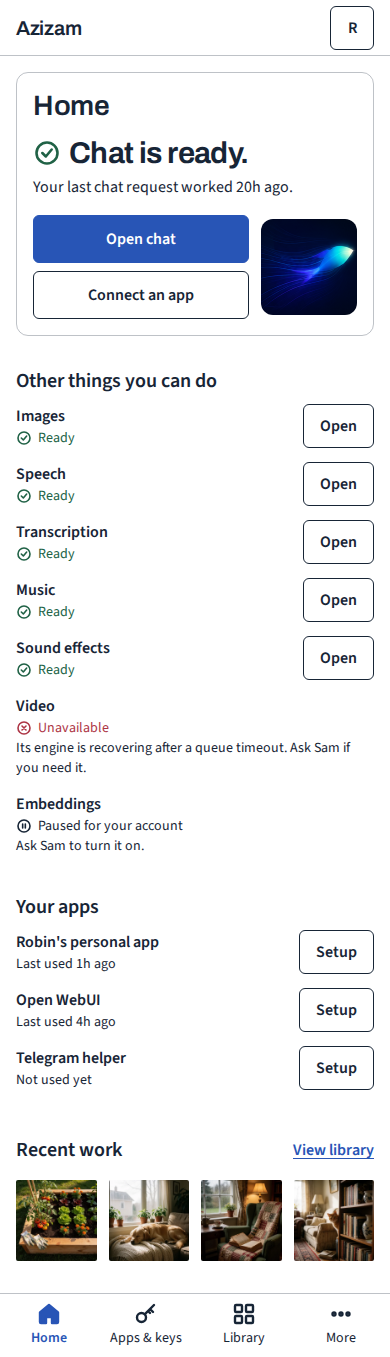
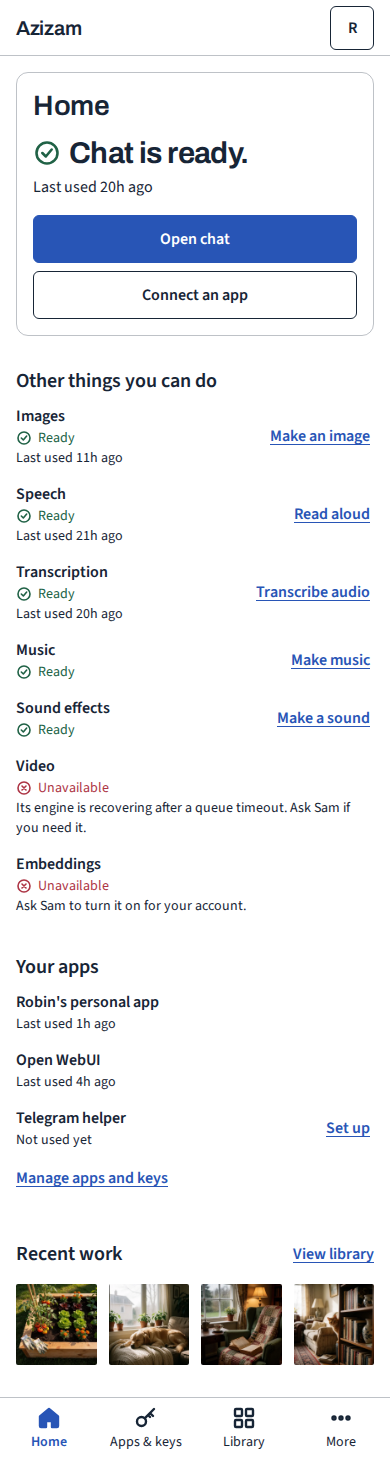
docs: Workspace comps, L6 fix pass (judge + dot review)

diff --git a/docs/design/comps/workspace/library.html b/docs/design/comps/workspace/library.html
@@ -46,6 +46,9 @@
   .nav a[aria-current="page"] .ico { fill: currentColor; fill-opacity: 1; }
   .disclose { margin-top: 16px; font-weight: 600; justify-content: space-between; }
   .rail { height: 56px; display: flex; align-items: center; justify-content: space-between; padding: 0 32px; border-bottom: 1px solid var(--line); }
+  .search input, .field input { flex: 1; min-width: 0; height: 40px; border: 0; background: none; color: var(--text); font: 400 16px/24px "Source Sans 3", sans-serif; outline: none; }
+  .search input::placeholder, .field input::placeholder { color: var(--text); opacity: 1; }
+  .search:focus-within, .field:focus-within, .select:focus-within { outline: 2px solid var(--accent); outline-offset: 2px; }
   .search { display: flex; align-items: center; gap: 8px; width: 360px; height: 44px; padding: 0 12px; border: 1px solid var(--text); border-radius: 6px; }
   .account { display: flex; align-items: center; gap: 8px; min-height: 44px; padding: 0 12px 0 6px; border: 1px solid var(--text); border-radius: 6px; background: none; color: var(--text); font: 600 16px/24px "Source Sans 3", sans-serif; }
   .initial { width: 32px; height: 32px; display: grid; place-items: center; border-radius: 6px; background: var(--text); color: var(--bg); font-weight: 600; }
@@ -61,24 +64,28 @@
   .toolbar { display: flex; gap: 12px; align-items: center; }
   .field { display: flex; align-items: center; gap: 8px; height: 44px; padding: 0 12px; border: 1px solid var(--text); border-radius: 6px; }
   .field-search { width: 280px; }
-  .select { display: flex; align-items: center; gap: 8px; height: 44px; padding: 0 8px 0 12px; border: 1px solid var(--text); border-radius: 6px; }
-  .select b { font-weight: 600; }
+  .select { position: relative; display: flex; align-items: center; gap: 8px; height: 44px; padding: 0 0 0 12px; border: 1px solid var(--text); border-radius: 6px; }
+  .select select { appearance: none; -webkit-appearance: none; height: 42px; border: 0; background: none; color: var(--text); font: 600 16px/24px "Source Sans 3", sans-serif; padding: 0 36px 0 0; outline: none; cursor: pointer; }
+  .select select option { background: var(--bg); color: var(--text); }
+  .select .ico { position: absolute; right: 8px; pointer-events: none; }
   .lib { display: grid; grid-template-columns: 768px 400px; gap: 24px; margin-top: 24px; align-items: start; }
   .group + .group { margin-top: 32px; }
   .group-h { font: 600 16px/24px "Source Sans 3", sans-serif; margin-bottom: 12px; }
   .sheet { list-style: none; margin: 0; padding: 0; display: grid; grid-template-columns: repeat(3, 248px); column-gap: 12px; row-gap: 24px; }
   .cell a { display: block; text-decoration: none; border-radius: 2px; }
-  .media { position: relative; display: grid; place-items: center; height: 160px; border: 1px solid var(--line); border-radius: 2px; overflow: hidden; }
+  .media { position: relative; display: grid; place-items: center; aspect-ratio: 1; border: 1px solid var(--line); border-radius: 2px; overflow: hidden; }
   .media img { position: absolute; inset: 0; width: 100%; height: 100%; object-fit: contain; display: block; }
   .cell a[aria-current="true"] .media { outline: 2px solid var(--accent); outline-offset: 2px; }
   .title { display: -webkit-box; -webkit-line-clamp: 2; -webkit-box-orient: vertical; overflow: hidden; margin-top: 10px; font-size: 16px; line-height: 24px; }
   .cell a[aria-current="true"] .title { font-weight: 600; }
   .meta { display: block; font-size: 14px; line-height: 20px; margin-top: 2px; }
-  .audio { display: flex; align-items: center; gap: 12px; }
-  .play { width: 44px; height: 44px; padding: 0; }
+  .cell { position: relative; }
+  .media-audio { place-items: end start; padding: 12px; }
+  .play { position: absolute; width: 44px; height: 44px; display: grid; place-items: center; padding: 0; border-radius: 6px; background: var(--bg); color: var(--text); border: 1px solid var(--text); cursor: pointer; }
+  .play-audio { left: calc(50% - 22px); top: calc(124px - 22px); }
+  .play-video { left: 8px; top: calc(248px - 52px); }
   .dur { font-weight: 600; }
-  .play-over { position: absolute; left: 8px; bottom: 8px; width: 44px; height: 44px; display: grid; place-items: center; border-radius: 6px; background: var(--bg); color: var(--text); border: 1px solid var(--text); }
-  .play-over .ico, .play .ico { fill: currentColor; stroke-width: 1.5; }
+  .play .ico { fill: currentColor; stroke-width: 1.5; }
 
   .preview { border: 1px solid var(--line); border-radius: 12px; padding: 16px; }
   .preview-media { height: 366px; display: grid; place-items: center; }
@@ -110,7 +117,6 @@
   <symbol id="i-down" viewBox="0 0 24 24"><path d="m6 9 6 6 6-6"/></symbol>
   <symbol id="i-ok" viewBox="0 0 24 24"><circle cx="12" cy="12" r="9"/><path d="m8 12 3 3 5-6"/></symbol>
   <symbol id="i-fail" viewBox="0 0 24 24"><circle cx="12" cy="12" r="9"/><path d="m9 9 6 6M15 9l-6 6"/></symbol>
-  <symbol id="i-paused" viewBox="0 0 24 24"><circle cx="12" cy="12" r="9"/><path d="M10 9v6M14 9v6"/></symbol>
   <symbol id="i-play" viewBox="0 0 24 24"><path d="M8 5v14l11-7z"/></symbol>
   <symbol id="i-download" viewBox="0 0 24 24"><path d="M12 4v11M7 10l5 5 5-5M5 20h14"/></symbol>
   <symbol id="i-expand" viewBox="0 0 24 24"><path d="M14 4h6v6M10 20H4v-6M20 4l-7 7M4 20l7-7"/></symbol>
@@ -141,7 +147,7 @@
 
   <div>
     <header class="rail">
-      <label class="search"><svg class="ico" aria-hidden="true"><use href="#i-search"/></svg><span>Search</span></label>
+      <div class="search" role="search"><svg class="ico" aria-hidden="true"><use href="#i-search"/></svg><label for="q" style="position:absolute;width:1px;height:1px;overflow:hidden;clip:rect(0 0 0 0)">Search</label><input id="q" type="search" placeholder="Search"></div>
       <button class="account" type="button"><span class="initial" aria-hidden="true">S</span>Sam</button>
     </header>
 
@@ -149,9 +155,9 @@
       <div class="lib-head">
         <h1>Library</h1>
         <div class="toolbar" role="search">
-          <label class="field field-search"><svg class="ico" aria-hidden="true"><use href="#i-search"/></svg><span>Search creations</span></label>
-          <label class="select">Type: <b>All</b><svg class="ico" aria-hidden="true"><use href="#i-down"/></svg></label>
-          <label class="select">Person: <b>Everyone</b><svg class="ico" aria-hidden="true"><use href="#i-down"/></svg></label>
+          <div class="field field-search"><svg class="ico" aria-hidden="true"><use href="#i-search"/></svg><label for="lib-q" style="position:absolute;width:1px;height:1px;overflow:hidden;clip:rect(0 0 0 0)">Search creations</label><input id="lib-q" type="search" placeholder="Search creations"></div>
+          <label class="select" for="f-type">Type<select id="f-type"><option>All</option><option>Images</option><option>Video</option><option>Audio</option></select><svg class="ico" aria-hidden="true"><use href="#i-down"/></svg></label>
+          <label class="select" for="f-person">Person<select id="f-person"><option>Everyone</option><option>Sam</option><option>Robin</option><option>Alex</option></select><svg class="ico" aria-hidden="true"><use href="#i-down"/></svg></label>
         </div>
       </div>
 
@@ -159,36 +165,36 @@
         <div class="collection" aria-label="Creations">
       <section class="group"><h2 class="group-h">Last 24 hours</h2>
       <ul class="sheet">
-        <li class="cell"><a href="#" aria-current="true"><span class="media"><img src="assets/kitchen-morning.webp" alt=""></span><span class="title">A lived-in family kitchen in warm morning light, sourdough bread on a wooden board, yellow ceramic mug, herbs at the window. Candid editorial photograph, tasteful natural colors, no text.</span><span class="meta">Sam, just now</span></a></li>
-        <li class="cell"><a href="#"><span class="media"><img src="assets/garden-plan.webp" alt=""></span><span class="title">An overhead photograph of a backyard raised vegetable bed with tomatoes, lettuce and marigolds, gardening gloves on the cedar edge, late afternoon sunlight, warm documentary style.</span><span class="meta">Robin, 11h ago</span></a></li>
-        <li class="cell"><a href="#"><span class="media"><img src="assets/school-ecosystem.webp" alt=""></span><span class="title">A beautifully crafted school science project showing a miniature pond ecosystem in a glass terrarium with moss, stones and tiny plants on a classroom desk. Editorial photograph, no text.</span><span class="meta">Alex, 22h ago</span></a></li>
+        <li class="cell"><a href="#" aria-current="true"><span class="media media-image"><img src="assets/kitchen-morning.webp" alt=""></span><span class="title">A lived-in family kitchen in warm morning light, sourdough bread on a wooden board, yellow ceramic mug, herbs at the window. Candid editorial photograph, tasteful natural colors, no text.</span><span class="meta">Sam, just now</span></a></li>
+        <li class="cell"><a href="#"><span class="media media-image"><img src="assets/garden-plan.webp" alt=""></span><span class="title">An overhead photograph of a backyard raised vegetable bed with tomatoes, lettuce and marigolds, gardening gloves on the cedar edge, late afternoon sunlight, warm documentary style.</span><span class="meta">Robin, 11h ago</span></a></li>
+        <li class="cell"><a href="#"><span class="media media-image"><img src="assets/school-ecosystem.webp" alt=""></span><span class="title">A beautifully crafted school science project showing a miniature pond ecosystem in a glass terrarium with moss, stones and tiny plants on a classroom desk. Editorial photograph, no text.</span><span class="meta">Alex, 22h ago</span></a></li>
       </ul></section>
       <section class="group"><h2 class="group-h">1 to 6 days ago</h2>
       <ul class="sheet">
-        <li class="cell"><a href="#"><span class="media"><img src="assets/dog-window.webp" alt=""></span><span class="title">A golden retriever asleep beside a sunlit living room window, knitted cream blanket and houseplants, quiet ordinary family afternoon, candid photography.</span><span class="meta">Robin, 1d ago</span></a></li>
-        <li class="cell"><a href="#"><span class="media"><img src="assets/coastal-weekend.webp" alt=""></span><span class="title">A coastal walking trail with wildflowers, two bicycles leaned against a wooden fence, blue sea and distant fishing boats, sunny family weekend mood, natural travel photography.</span><span class="meta">Sam, 2d ago</span></a></li>
-        <li class="cell"><a href="#"><span class="media"><img src="assets/reading-nook.webp" alt=""></span><span class="title">A cozy reading corner with a green armchair, well-loved paperback, tea and a patchwork quilt, rain on the window, warm lamp light, tasteful interior photography.</span><span class="meta">Robin, 2d ago</span></a></li>
-        <li class="cell"><a href="#"><span class="media"><img src="assets/solar-project.webp" alt=""></span><span class="title">A tiny handmade solar-powered model house made of balsa wood with a small solar panel on the roof on a teenager workbench, tools and colored pencils, detailed natural photography.</span><span class="meta">Alex, 3d ago</span></a></li>
-        <li class="cell"><a href="#"><span class="media"><img src="assets/apple-tart.webp" alt=""></span><span class="title">A homemade apple tart cooling on a wooden kitchen table, flour-dusted rolling pin, folded linen towel and a bowl of autumn apples, gentle window light, food photography.</span><span class="meta">Sam, 3d ago</span></a></li>
-        <li class="cell"><a href="#"><span class="media"><img src="assets/cat-bookshelf.webp" alt=""></span><span class="title">A ginger cat peeking from a bookshelf between paperbacks and a ceramic vase, lived-in family living room, soft afternoon light, candid photograph.</span><span class="meta">Robin, 4d ago</span></a></li>
-        <li class="cell"><a href="#"><span class="media"><img src="assets/mountain-cabin.webp" alt=""></span><span class="title">A small wood cabin beside a mountain lake at sunrise, mist above still water, canoe pulled onto a pebble shore, peaceful family holiday scene, travel photograph.</span><span class="meta">Sam, 4d ago</span></a></li>
-        <li class="cell"><a href="#"><span class="media"><img src="assets/wildflower-study.webp" alt=""></span><span class="title">A hand-painted watercolor study of local wildflowers on a sketchbook page, paint palette and brushes on a teenager desk, warm natural light, charming believable craft photograph, no lettering.</span><span class="meta">Alex, 5d ago</span></a></li>
-        <li class="cell"><a href="#"><span class="media"><img src="assets/herb-window.webp" alt=""></span><span class="title">Basil rosemary and thyme growing in terracotta pots on a kitchen windowsill, old brass watering can, morning sun and soft shadows, honest domestic photograph.</span><span class="meta">Robin, 5d ago</span></a></li>
-        <li class="cell"><a href="#"><span class="media"><img src="assets/birthday-table.webp" alt=""></span><span class="title">A simple backyard birthday table with a homemade lemon cake, linen tablecloth, flowers in jam jars and warm string lights, intimate family celebration, no people no text, editorial photograph.</span><span class="meta">Sam, 6d ago</span></a></li>
-        <li class="cell"><a href="#"><span class="media"><img src="assets/train-journey.webp" alt=""></span><span class="title">View from a train window over rolling countryside in autumn, a travel journal and two takeaway coffee cups on the small table, warm quiet family travel photograph.</span><span class="meta">Robin, 6d ago</span></a></li>
-        <li class="cell"><a href="#"><span class="media"><img src="assets/birdhouse.webp" alt=""></span><span class="title">A handmade wooden birdhouse freshly painted soft blue hanging from an apple tree in a backyard, a small bird nearby, spring sunlight, thoughtful school craft project photograph.</span><span class="meta">Alex, 6d ago</span></a></li>
+        <li class="cell"><a href="#"><span class="media media-image"><img src="assets/dog-window.webp" alt=""></span><span class="title">A golden retriever asleep beside a sunlit living room window, knitted cream blanket and houseplants, quiet ordinary family afternoon, candid photography.</span><span class="meta">Robin, 1d ago</span></a></li>
+        <li class="cell"><a href="#"><span class="media media-image"><img src="assets/coastal-weekend.webp" alt=""></span><span class="title">A coastal walking trail with wildflowers, two bicycles leaned against a wooden fence, blue sea and distant fishing boats, sunny family weekend mood, natural travel photography.</span><span class="meta">Sam, 2d ago</span></a></li>
+        <li class="cell"><a href="#"><span class="media media-image"><img src="assets/reading-nook.webp" alt=""></span><span class="title">A cozy reading corner with a green armchair, well-loved paperback, tea and a patchwork quilt, rain on the window, warm lamp light, tasteful interior photography.</span><span class="meta">Robin, 2d ago</span></a></li>
+        <li class="cell"><a href="#"><span class="media media-image"><img src="assets/solar-project.webp" alt=""></span><span class="title">A tiny handmade solar-powered model house made of balsa wood with a small solar panel on the roof on a teenager workbench, tools and colored pencils, detailed natural photography.</span><span class="meta">Alex, 3d ago</span></a></li>
+        <li class="cell"><a href="#"><span class="media media-image"><img src="assets/apple-tart.webp" alt=""></span><span class="title">A homemade apple tart cooling on a wooden kitchen table, flour-dusted rolling pin, folded linen towel and a bowl of autumn apples, gentle window light, food photography.</span><span class="meta">Sam, 3d ago</span></a></li>
+        <li class="cell"><a href="#"><span class="media media-image"><img src="assets/cat-bookshelf.webp" alt=""></span><span class="title">A ginger cat peeking from a bookshelf between paperbacks and a ceramic vase, lived-in family living room, soft afternoon light, candid photograph.</span><span class="meta">Robin, 4d ago</span></a></li>
+        <li class="cell"><a href="#"><span class="media media-image"><img src="assets/mountain-cabin.webp" alt=""></span><span class="title">A small wood cabin beside a mountain lake at sunrise, mist above still water, canoe pulled onto a pebble shore, peaceful family holiday scene, travel photograph.</span><span class="meta">Sam, 4d ago</span></a></li>
+        <li class="cell"><a href="#"><span class="media media-image"><img src="assets/wildflower-study.webp" alt=""></span><span class="title">A hand-painted watercolor study of local wildflowers on a sketchbook page, paint palette and brushes on a teenager desk, warm natural light, charming believable craft photograph, no lettering.</span><span class="meta">Alex, 5d ago</span></a></li>
+        <li class="cell"><a href="#"><span class="media media-image"><img src="assets/herb-window.webp" alt=""></span><span class="title">Basil rosemary and thyme growing in terracotta pots on a kitchen windowsill, old brass watering can, morning sun and soft shadows, honest domestic photograph.</span><span class="meta">Robin, 5d ago</span></a></li>
+        <li class="cell"><a href="#"><span class="media media-image"><img src="assets/birthday-table.webp" alt=""></span><span class="title">A simple backyard birthday table with a homemade lemon cake, linen tablecloth, flowers in jam jars and warm string lights, intimate family celebration, no people no text, editorial photograph.</span><span class="meta">Sam, 6d ago</span></a></li>
+        <li class="cell"><a href="#"><span class="media media-image"><img src="assets/train-journey.webp" alt=""></span><span class="title">View from a train window over rolling countryside in autumn, a travel journal and two takeaway coffee cups on the small table, warm quiet family travel photograph.</span><span class="meta">Robin, 6d ago</span></a></li>
+        <li class="cell"><a href="#"><span class="media media-image"><img src="assets/birdhouse.webp" alt=""></span><span class="title">A handmade wooden birdhouse freshly painted soft blue hanging from an apple tree in a backyard, a small bird nearby, spring sunlight, thoughtful school craft project photograph.</span><span class="meta">Alex, 6d ago</span></a></li>
       </ul></section>
       <section class="group"><h2 class="group-h">7 to 11 days ago</h2>
       <ul class="sheet">
-        <li class="cell"><a href="#"><span class="media"><img src="assets/rainy-patio.webp" alt=""></span><span class="title">Rain drops on a small covered patio with terracotta planters, a folded green umbrella and two wooden chairs, warm light through a kitchen door, cozy documentary photograph.</span><span class="meta">Robin, 7d ago</span></a></li>
-        <li class="cell"><a href="#"><span class="media"><img src="assets/picnic-lake.webp" alt=""></span><span class="title">A family picnic blanket beside a quiet lake, wicker basket, strawberries and sandwiches, shoes placed neatly on grass, golden afternoon light, candid travel photograph.</span><span class="meta">Sam, 7d ago</span></a></li>
-        <li class="cell"><a href="#"><span class="media"><img src="assets/garden-evening.webp" alt=""></span><span class="title">A backyard vegetable garden at dusk with a stone path, climbing beans and warm porch lights, the first stars above, peaceful lived-in home photography.</span><span class="meta">Robin, 8d ago</span></a></li>
-        <li class="cell"><a href="#"><span class="media"><span class="audio"><span class="btn play" aria-hidden="true"><svg class="ico" aria-hidden="true"><use href="#i-play"/></svg></span><span class="dur">0:04</span></span></span><span class="title">The tomatoes are ready to pick. Please water the herb pots before dinner.</span><span class="meta">Robin, 8d ago</span></a></li>
-        <li class="cell"><a href="#"><span class="media"><span class="audio"><span class="btn play" aria-hidden="true"><svg class="ico" aria-hidden="true"><use href="#i-play"/></svg></span><span class="dur">0:05</span></span></span><span class="title">Our solar house uses sunlight to power a tiny fan. We tested it on a cloudy day too.</span><span class="meta">Alex, 9d ago</span></a></li>
-        <li class="cell"><a href="#"><span class="media"><span class="audio"><span class="btn play" aria-hidden="true"><svg class="ico" aria-hidden="true"><use href="#i-play"/></svg></span><span class="dur">0:05</span></span></span><span class="title">On Saturday we will take the train to the coast, walk by the harbor, and have a picnic.</span><span class="meta">Sam, 9d ago</span></a></li>
-        <li class="cell"><a href="#"><span class="media"><span class="audio"><span class="btn play" aria-hidden="true"><svg class="ico" aria-hidden="true"><use href="#i-play"/></svg></span><span class="dur">0:06</span></span></span><span class="title">Hi June. Welcome to our household gateway. You can try a voice message or make a picture of your garden.</span><span class="meta">Sam, 10d ago</span></a></li>
-        <li class="cell"><a href="#"><span class="media"><span class="audio"><span class="btn play" aria-hidden="true"><svg class="ico" aria-hidden="true"><use href="#i-play"/></svg></span><span class="dur">0:07</span></span></span><span class="title">For the apple tart, slice the apples thinly and bake until the pastry is golden. Let it cool before serving.</span><span class="meta">Robin, 10d ago</span></a></li>
-        <li class="cell"><a href="#"><span class="media"><img src="assets/garden-breeze-poster.webp" alt=""><span class="play-over"><svg class="ico" aria-hidden="true"><use href="#i-play"/></svg></span></span><span class="title">A gentle breeze moves the leaves in a sunlit backyard vegetable garden, a watering can beside the raised bed, quiet warm family afternoon, slow steady camera. Audio: birds chirping softly.</span><span class="meta">Video, 0:03. Robin, 11d ago</span></a></li>
+        <li class="cell"><a href="#"><span class="media media-image"><img src="assets/rainy-patio.webp" alt=""></span><span class="title">Rain drops on a small covered patio with terracotta planters, a folded green umbrella and two wooden chairs, warm light through a kitchen door, cozy documentary photograph.</span><span class="meta">Robin, 7d ago</span></a></li>
+        <li class="cell"><a href="#"><span class="media media-image"><img src="assets/picnic-lake.webp" alt=""></span><span class="title">A family picnic blanket beside a quiet lake, wicker basket, strawberries and sandwiches, shoes placed neatly on grass, golden afternoon light, candid travel photograph.</span><span class="meta">Sam, 7d ago</span></a></li>
+        <li class="cell"><a href="#"><span class="media media-image"><img src="assets/garden-evening.webp" alt=""></span><span class="title">A backyard vegetable garden at dusk with a stone path, climbing beans and warm porch lights, the first stars above, peaceful lived-in home photography.</span><span class="meta">Robin, 8d ago</span></a></li>
+        <li class="cell"><a href="#"><span class="media media-audio"><span class="dur">0:04</span></span><span class="title">The tomatoes are ready to pick. Please water the herb pots before dinner.</span><span class="meta">Robin, 8d ago</span></a><button class="play play-audio" type="button" aria-label="Play audio: The tomatoes are ready to pick"><svg class="ico" aria-hidden="true"><use href="#i-play"/></svg></button></li>
+        <li class="cell"><a href="#"><span class="media media-audio"><span class="dur">0:05</span></span><span class="title">Our solar house uses sunlight to power a tiny fan. We tested it on a cloudy day too.</span><span class="meta">Alex, 9d ago</span></a><button class="play play-audio" type="button" aria-label="Play audio: Our solar house uses sunlight to power a tiny fan"><svg class="ico" aria-hidden="true"><use href="#i-play"/></svg></button></li>
+        <li class="cell"><a href="#"><span class="media media-audio"><span class="dur">0:05</span></span><span class="title">On Saturday we will take the train to the coast, walk by the harbor, and have a picnic.</span><span class="meta">Sam, 9d ago</span></a><button class="play play-audio" type="button" aria-label="Play audio: On Saturday we will take the train to the coast, walk by the"><svg class="ico" aria-hidden="true"><use href="#i-play"/></svg></button></li>
+        <li class="cell"><a href="#"><span class="media media-audio"><span class="dur">0:06</span></span><span class="title">Hi June. Welcome to our household gateway. You can try a voice message or make a picture of your garden.</span><span class="meta">Sam, 10d ago</span></a><button class="play play-audio" type="button" aria-label="Play audio: Hi June"><svg class="ico" aria-hidden="true"><use href="#i-play"/></svg></button></li>
+        <li class="cell"><a href="#"><span class="media media-audio"><span class="dur">0:07</span></span><span class="title">For the apple tart, slice the apples thinly and bake until the pastry is golden. Let it cool before serving.</span><span class="meta">Robin, 10d ago</span></a><button class="play play-audio" type="button" aria-label="Play audio: For the apple tart, slice the apples thinly and bake until t"><svg class="ico" aria-hidden="true"><use href="#i-play"/></svg></button></li>
+        <li class="cell"><a href="#"><span class="media media-video"><img src="assets/garden-breeze-poster.webp" alt=""></span><span class="title">A gentle breeze moves the leaves in a sunlit backyard vegetable garden, a watering can beside the raised bed, quiet warm family afternoon, slow steady camera. Audio: birds chirping softly.</span><span class="meta">Video, 0:03. Robin, 11d ago</span></a><button class="play play-video" type="button" aria-label="Play video: A gentle breeze moves the leaves in a sunlit backyard vegeta"><svg class="ico" aria-hidden="true"><use href="#i-play"/></svg></button></li>
       </ul></section>
         </div>
 

diff --git a/docs/design/comps/workspace/status.html b/docs/design/comps/workspace/status.html
@@ -46,6 +46,9 @@
   .nav a[aria-current="page"] .ico { fill: currentColor; fill-opacity: 1; }
   .disclose { margin-top: 16px; font-weight: 600; justify-content: space-between; }
   .rail { height: 56px; display: flex; align-items: center; justify-content: space-between; padding: 0 32px; border-bottom: 1px solid var(--line); }
+  .search input { flex: 1; min-width: 0; height: 40px; border: 0; background: none; color: var(--text); font: 400 16px/24px "Source Sans 3", sans-serif; outline: none; }
+  .search input::placeholder { color: var(--text); opacity: 1; }
+  .search:focus-within { outline: 2px solid var(--accent); outline-offset: 2px; }
   .search { display: flex; align-items: center; gap: 8px; width: 360px; height: 44px; padding: 0 12px; border: 1px solid var(--text); border-radius: 6px; }
   .account { display: flex; align-items: center; gap: 8px; min-height: 44px; padding: 0 12px 0 6px; border: 1px solid var(--text); border-radius: 6px; background: none; color: var(--text); font: 600 16px/24px "Source Sans 3", sans-serif; }
   .initial { width: 32px; height: 32px; display: grid; place-items: center; border-radius: 6px; background: var(--text); color: var(--bg); font-weight: 600; }
@@ -66,12 +69,18 @@
   .ok { color: var(--ok); } .fail { color: var(--fail); }
   .caps-foot { margin-top: 16px; padding: 0 12px; }
 
-  .incident { border: 1px solid var(--line); border-radius: 12px; padding: 24px; }
+  .incident { border-top: 1px solid var(--line); padding-top: 20px; }
   .verdict { display: flex; align-items: center; gap: 12px; font: 650 36px/42px Archivo, sans-serif; letter-spacing: -0.02em; }
   .verdict .ico { width: 32px; height: 32px; color: var(--fail); stroke-width: 2.2; }
   .cause { margin-top: 12px; max-width: 68ch; }
   .cause strong { font-weight: 600; }
   .actions { display: flex; gap: 12px; margin-top: 16px; }
+  .incident table { margin-top: 20px; }
+  .more { margin-top: 20px; border-top: 1px solid var(--line); }
+  .more summary { min-height: 52px; display: flex; align-items: center; gap: 8px; font-weight: 600; cursor: pointer; list-style: none; }
+  .more summary::-webkit-details-marker { display: none; }
+  .more summary::before { content: ""; width: 8px; height: 8px; border-right: 2px solid currentColor; border-bottom: 2px solid currentColor; transform: rotate(-45deg); margin: 0 6px 0 4px; }
+  .more[open] summary::before { transform: rotate(45deg); }
   .region-sep { border: 0; border-top: 1px solid var(--line); margin: 24px 0; }
   .chart-head { display: flex; align-items: baseline; justify-content: space-between; gap: 16px; }
   .chart-head h3 { font: 600 16px/24px "Source Sans 3", sans-serif; }
@@ -96,7 +105,7 @@
   .outcome { vertical-align: middle; display: inline-flex; align-items: center; gap: 6px; font-weight: 600; }
   .btn-sm { min-height: 44px; padding: 0 12px; }
 
-  .context { display: flex; gap: 40px; margin-top: 24px; padding: 0 24px; }
+  .context { display: flex; gap: 40px; margin-top: 32px; padding-top: 16px; border-top: 1px solid var(--line); }
   .context dt { font-size: 14px; line-height: 20px; font-weight: 600; }
   .context dd { font-size: 16px; line-height: 24px; }
   .static-capture .shell { min-height: 0; }
@@ -119,7 +128,6 @@
   <symbol id="i-down" viewBox="0 0 24 24"><path d="m6 9 6 6 6-6"/></symbol>
   <symbol id="i-ok" viewBox="0 0 24 24"><circle cx="12" cy="12" r="9"/><path d="m8 12 3 3 5-6"/></symbol>
   <symbol id="i-fail" viewBox="0 0 24 24"><circle cx="12" cy="12" r="9"/><path d="m9 9 6 6M15 9l-6 6"/></symbol>
-  <symbol id="i-paused" viewBox="0 0 24 24"><circle cx="12" cy="12" r="9"/><path d="M10 9v6M14 9v6"/></symbol>
 </svg>
 
 <div class="shell">
@@ -147,7 +155,7 @@
 
   <div>
     <header class="rail">
-      <label class="search"><svg class="ico" aria-hidden="true"><use href="#i-search"/></svg><span>Search</span></label>
+      <div class="search" role="search"><svg class="ico" aria-hidden="true"><use href="#i-search"/></svg><label for="q" style="position:absolute;width:1px;height:1px;overflow:hidden;clip:rect(0 0 0 0)">Search</label><input id="q" type="search" placeholder="Search"></div>
       <button class="account" type="button"><span class="initial" aria-hidden="true">S</span>Sam</button>
     </header>
 
@@ -164,7 +172,7 @@
             <li class="cap"><svg class="ico ok" aria-hidden="true"><use href="#i-ok"/></svg><span class="cap-name">Transcription</span><span class="cap-state ok">Ready</span></li>
             <li class="cap"><svg class="ico ok" aria-hidden="true"><use href="#i-ok"/></svg><span class="cap-name">Music</span><span class="cap-state ok">Ready</span></li>
             <li class="cap"><svg class="ico ok" aria-hidden="true"><use href="#i-ok"/></svg><span class="cap-name">Sound effects</span><span class="cap-state ok">Ready</span></li>
-            <li class="cap"><svg class="ico" aria-hidden="true"><use href="#i-paused"/></svg><span class="cap-name">Embeddings</span><span class="cap-state">Paused</span></li>
+            <li class="cap"><svg class="ico fail" aria-hidden="true"><use href="#i-fail"/></svg><span class="cap-name">Embeddings</span><span class="cap-state fail">Unavailable</span></li>
           </ul>
           <div class="caps-foot"><a class="btn" href="#">Open engines</a></div>
         </section>
@@ -178,10 +186,18 @@
               <a class="btn" href="#">Open video receipts</a>
             </div>
 
-            <hr class="region-sep">
+            <table>
+              <caption class="sr" style="position:absolute;width:1px;height:1px;overflow:hidden;clip:rect(0 0 0 0)">Failed video receipt</caption>
+              <thead><tr><th>When</th><th>App</th><th>Model</th><th>Outcome</th><th>Time taken</th><th><span style="position:absolute;width:1px;height:1px;overflow:hidden;clip:rect(0 0 0 0)">Receipt</span></th></tr></thead>
+              <tbody>
+                <tr><td>21h ago</td><td>Open WebUI</td><td><span class="mono">ltx-2.5</span></td><td><span class="outcome fail"><svg class="ico" aria-hidden="true"><use href="#i-fail"/></svg>Failed</span></td><td>3.5 s</td><td><a class="btn btn-sm" href="#">Open receipt</a></td></tr>
+              </tbody>
+            </table>
 
+            <details class="more">
+              <summary>Video requests by day, Oct 1 to Oct 7</summary>
             <div class="chart-head">
-              <h3>Video requests by day, Oct 1 to Oct 7</h3>
+              <span></span>
               <div class="legend" aria-hidden="true">
                 <span><i class="key key-all"></i>All video requests</span>
                 <span><i class="key key-fail"></i>Failed</span>
@@ -225,17 +241,7 @@
               <text x="766" y="226" text-anchor="middle">Oct 7</text>
             </svg>
             <p class="note">Daily totals come from Usage. Failed comes from receipts.</p>
-
-            <hr class="region-sep">
-
-            <h3 class="chart-head" style="font:600 16px/24px 'Source Sans 3',sans-serif">Latest video receipts</h3>
-            <table>
-              <thead><tr><th>When</th><th>App</th><th>Model</th><th>Outcome</th><th>Time taken</th><th><span class="sr" style="position:absolute;width:1px;height:1px;overflow:hidden;clip:rect(0 0 0 0)">Receipt</span></th></tr></thead>
-              <tbody>
-                <tr><td>21h ago</td><td>Open WebUI</td><td><span class="mono">ltx-2.5</span></td><td><span class="outcome fail"><svg class="ico" aria-hidden="true"><use href="#i-fail"/></svg>Failed</span></td><td>3.5 s</td><td><a class="btn btn-sm" href="#">Open receipt</a></td></tr>
-                <tr><td>2d ago</td><td>Robin's personal app</td><td><span class="mono">ltx-2.5</span></td><td><span class="outcome ok"><svg class="ico" aria-hidden="true"><use href="#i-ok"/></svg>Completed</span></td><td>3.3 s</td><td><a class="btn btn-sm" href="#">Open receipt</a></td></tr>
-              </tbody>
-            </table>
+            </details>
           </section>
 
           <dl class="context">

diff --git a/docs/design/comps/workspace/home.html b/docs/design/comps/workspace/home.html
@@ -14,7 +14,6 @@
     --bg: #FFFFFF; --text: #172536; --accent: #2855B6;
     --ok: #206246; --attn: #895316; --fail: #AD3545;
     --line: rgb(23 37 54 / 0.28);
-    --art-bg: #172536;
     color-scheme: light;
   }
   @media (prefers-color-scheme: dark) {
@@ -59,9 +58,7 @@
   .verdict { display: flex; align-items: center; gap: 8px; margin-top: 12px; font: 650 30px/36px Archivo, sans-serif; letter-spacing: -0.02em; }
   .verdict .ico { width: 28px; height: 28px; color: var(--ok); stroke-width: 2.2; }
   .evidence { margin-top: 4px; font-size: 16px; line-height: 24px; }
-  .act-row { display: grid; grid-template-columns: 1fr 96px; gap: 12px; margin-top: 16px; align-items: center; }
-  .act-stack { display: grid; gap: 8px; }
-  .art { width: 96px; height: 96px; border-radius: 12px; background: var(--art-bg) url(assets/deep-water.png) center / cover no-repeat; }
+  .act-stack { display: grid; gap: 8px; margin-top: 16px; }
 
   .btn {
     display: inline-flex; align-items: center; justify-content: center; gap: 8px;
@@ -85,6 +82,8 @@
   .state .ico { width: 16px; height: 16px; margin-top: 2px; stroke-width: 2.4; }
   .ok { color: var(--ok); }
   .fail { color: var(--fail); }
+  .row-act { min-height: 44px; display: inline-flex; align-items: center; padding: 0 4px; color: var(--accent); font-weight: 600; text-decoration: underline; text-underline-offset: 3px; white-space: nowrap; }
+  .sub { font-size: 14px; line-height: 20px; }
   .restricted-note { font-size: 14px; line-height: 20px; }
 
   .thumbs { display: grid; grid-template-columns: repeat(4, 1fr); gap: 12px; margin-top: 8px; }
@@ -111,8 +110,7 @@
   <symbol id="i-more" viewBox="0 0 24 24"><circle cx="5" cy="12" r="1.5"/><circle cx="12" cy="12" r="1.5"/><circle cx="19" cy="12" r="1.5"/></symbol>
   <symbol id="i-ok" viewBox="0 0 24 24"><circle cx="12" cy="12" r="9"/><path d="m8 12 3 3 5-6"/></symbol>
   <symbol id="i-fail" viewBox="0 0 24 24"><circle cx="12" cy="12" r="9"/><path d="m9 9 6 6M15 9l-6 6"/></symbol>
-  <symbol id="i-paused" viewBox="0 0 24 24"><circle cx="12" cy="12" r="9"/><path d="M10 9v6M14 9v6"/></symbol>
-</svg>
+  </svg>
 
 <header class="top">
   <span class="wordmark">Azizam</span>
@@ -123,36 +121,34 @@
   <div class="task">
     <h1>Home</h1>
     <p class="verdict"><svg class="ico" aria-hidden="true"><use href="#i-ok"/></svg>Chat is ready.</p>
-    <p class="evidence">Your last chat request worked 20h ago.</p>
-    <div class="act-row">
-      <div class="act-stack">
-        <a class="btn btn-lg btn-primary" href="#">Open chat</a>
-        <a class="btn btn-lg" href="#">Connect an app</a>
-      </div>
-      <div class="art" role="img" aria-label="Azizam artwork"></div>
+    <p class="evidence">Last used 20h ago</p>
+    <div class="act-stack">
+      <a class="btn btn-lg btn-primary" href="#">Open chat</a>
+      <a class="btn btn-lg" href="#">Connect an app</a>
     </div>
   </div>
 
   <section aria-labelledby="h-other">
     <div class="sec-head"><h2 id="h-other">Other things you can do</h2></div>
     <ul class="rows">
-      <li class="row"><div class="row-main"><div class="row-name">Images</div><div class="state ok"><svg class="ico" aria-hidden="true"><use href="#i-ok"/></svg>Ready</div></div><a class="btn" href="#">Open</a></li>
-      <li class="row"><div class="row-main"><div class="row-name">Speech</div><div class="state ok"><svg class="ico" aria-hidden="true"><use href="#i-ok"/></svg>Ready</div></div><a class="btn" href="#">Open</a></li>
-      <li class="row"><div class="row-main"><div class="row-name">Transcription</div><div class="state ok"><svg class="ico" aria-hidden="true"><use href="#i-ok"/></svg>Ready</div></div><a class="btn" href="#">Open</a></li>
-      <li class="row"><div class="row-main"><div class="row-name">Music</div><div class="state ok"><svg class="ico" aria-hidden="true"><use href="#i-ok"/></svg>Ready</div></div><a class="btn" href="#">Open</a></li>
-      <li class="row"><div class="row-main"><div class="row-name">Sound effects</div><div class="state ok"><svg class="ico" aria-hidden="true"><use href="#i-ok"/></svg>Ready</div></div><a class="btn" href="#">Open</a></li>
+      <li class="row"><div class="row-main"><div class="row-name">Images</div><div class="state ok"><svg class="ico" aria-hidden="true"><use href="#i-ok"/></svg>Ready</div><div class="sub">Last used 11h ago</div></div><a class="row-act" href="#">Make an image</a></li>
+      <li class="row"><div class="row-main"><div class="row-name">Speech</div><div class="state ok"><svg class="ico" aria-hidden="true"><use href="#i-ok"/></svg>Ready</div><div class="sub">Last used 21h ago</div></div><a class="row-act" href="#">Read aloud</a></li>
+      <li class="row"><div class="row-main"><div class="row-name">Transcription</div><div class="state ok"><svg class="ico" aria-hidden="true"><use href="#i-ok"/></svg>Ready</div><div class="sub">Last used 20h ago</div></div><a class="row-act" href="#">Transcribe audio</a></li>
+      <li class="row"><div class="row-main"><div class="row-name">Music</div><div class="state ok"><svg class="ico" aria-hidden="true"><use href="#i-ok"/></svg>Ready</div></div><a class="row-act" href="#">Make music</a></li>
+      <li class="row"><div class="row-main"><div class="row-name">Sound effects</div><div class="state ok"><svg class="ico" aria-hidden="true"><use href="#i-ok"/></svg>Ready</div></div><a class="row-act" href="#">Make a sound</a></li>
       <li class="row"><div class="row-main"><div class="row-name">Video</div><div class="state fail"><svg class="ico" aria-hidden="true"><use href="#i-fail"/></svg>Unavailable</div><p class="restricted-note">Its engine is recovering after a queue timeout. Ask Sam if you need it.</p></div></li>
-      <li class="row"><div class="row-main"><div class="row-name">Embeddings</div><div class="state"><svg class="ico" aria-hidden="true"><use href="#i-paused"/></svg>Paused for your account</div><p class="restricted-note">Ask Sam to turn it on.</p></div></li>
+      <li class="row"><div class="row-main"><div class="row-name">Embeddings</div><div class="state fail"><svg class="ico" aria-hidden="true"><use href="#i-fail"/></svg>Unavailable</div><p class="restricted-note">Ask Sam to turn it on for your account.</p></div></li>
     </ul>
   </section>
 
   <section aria-labelledby="h-apps">
     <div class="sec-head"><h2 id="h-apps">Your apps</h2></div>
     <ul class="rows">
-      <li class="row"><div class="row-main"><div class="row-name">Robin's personal app</div><div class="state">Last used 1h ago</div></div><a class="btn" href="#">Setup</a></li>
-      <li class="row"><div class="row-main"><div class="row-name">Open WebUI</div><div class="state">Last used 4h ago</div></div><a class="btn" href="#">Setup</a></li>
-      <li class="row"><div class="row-main"><div class="row-name">Telegram helper</div><div class="state">Not used yet</div></div><a class="btn" href="#">Setup</a></li>
+      <li class="row"><div class="row-main"><div class="row-name">Robin's personal app</div><div class="state">Last used 1h ago</div></div></li>
+      <li class="row"><div class="row-main"><div class="row-name">Open WebUI</div><div class="state">Last used 4h ago</div></div></li>
+      <li class="row"><div class="row-main"><div class="row-name">Telegram helper</div><div class="state">Not used yet</div></div><a class="row-act" href="#">Set up</a></li>
     </ul>
+    <a class="link-btn" href="#">Manage apps and keys</a>
   </section>
 
   <section aria-labelledby="h-recent">

diff --git a/docs/design/comps/workspace/NOTES.md b/docs/design/comps/workspace/NOTES.md
@@ -8,7 +8,7 @@ Spec: `docs/design/directions/blind-codex.md`, "Direction 2: Workspace" and "Rul
 - PNGs, viewport: `home-{light,dark}-390.png` (390x844), `status-{light,dark}-1440.png`, `library-{light,dark}-1440.png` (1440x1000).
 - PNGs, full page: the same names with `-full`. Full-page captures make the phone bottom bar static.
 - `render.mjs`: renders every PNG with the Chromium from `~/applications/azizam/web/node_modules/@playwright/test`. It also reports horizontal overflow and the lowest text-contrast ratios. Run `node render.mjs [home|status|library]`.
-- `assets/`: 18 Library images and the video poster from the household fixture, plus `deep-water.png`.
+- `assets/`: 18 Library images and the video poster from the household fixture.
 
 ## What the comps match from the spec
 
@@ -33,13 +33,13 @@ Spec: `docs/design/directions/blind-codex.md`, "Direction 2: Workspace" and "Rul
 - **Chart by 5-minute interval, past hour:** there is no such data. The chart uses real daily Video counts from the Usage page (Oct 1 to 7: 2, 3, 4, 3, 2, 2, 1). The Failed lane shows the one failed video receipt (`req_household_00_27`, 21h ago, which is Oct 7 UTC). The data does not give success or failure for the other requests, so the chart shows "All requests" and "Failed" instead of "Successful" and "Failed". The note under the chart names both sources. One caveat: the Activity list loads only 51 receipts, and I could not fully reconcile it with the Oct 6 Usage count. The chart uses the Usage figures as shown.
 - **"Unchecked" capability state:** no capability in the data is unchecked, so no question-mark state appears.
 - **Spec wireframe text such as "Images unavailable" and "Studio stopped":** the spec marks this text as hypothetical. It is replaced with the real Video problem.
-- **Brand art:** the repository has no standalone deep-water art file. `assets/deep-water.png` is a crop of the fish artwork from the handoff image `reference-ui/portal-overview-mobile-welcome.png`.
+- **Brand art:** removed in fix pass 2.
 - **Audio waveforms:** none are extracted from the files, so audio cells show a play control and the duration only, as the spec allows.
 
 ## Choices where the spec was silent
 
-- **Paused:** the spec has no icon for Paused. I used a circled pause glyph in text colour, because Paused is not a failure.
-- **Embeddings state:** for Robin, "Paused for your account. Ask Sam to turn it on." This comes from the real "Ask the owner to enable this capability." The owner view shows the same capability as Paused.
+- **Paused:** (superseded by fix pass 2; no Paused state remains)
+- **Embeddings state:** Unavailable (fix pass 2). The member text "Ask Sam to turn it on for your account." comes from "Ask the owner to enable this capability."
 - **Speech and Transcription readiness** on the owner Status page comes from the member Status page. The owner page lists engines only.
 - **Video wording for members:** "Unavailable. Its engine is recovering after a queue timeout. Ask Sam if you need it." The cause is quoted from the receipt warning.
 - **App rows on Home** offer "Setup", because the data has no launch targets. Telegram helper shows "Not used yet", because the real UI shows it with no last-used time.
@@ -53,3 +53,14 @@ Spec: `docs/design/directions/blind-codex.md`, "Direction 2: Workspace" and "Rul
 - **Selected nav item:** an accent outline, accent text and a filled icon.
 - **Account control:** a 6 px-radius initial plus the name on desktop, and the initial only on the phone.
 - **Chart colours:** bars use the text colour and the failed bar uses the Failed colour. Bars are separated by lane as well as colour.
+
+## Fix pass 2 (judge and text review)
+
+1. **Art removed:** the deep-water art on Home is gone (the judge matched it to the banned "AI" glow). Open chat and Connect an app now use the full width. This drops the spec's "one memorable element" on Home.
+2. **Readiness:** "Ready" now comes from the current engine and capability state in the Status captures. Real receipts appear only as a secondary "Last used" line: Chat 20h ago, Images 11h ago, Speech 21h ago, Transcription 20h ago. Music and Sound effects have no receipts for Robin, so they show no line.
+3. **Row actions:** each capability has one task label in a single text-link style ("Make an image", "Read aloud", "Transcribe audio", "Make music", "Make a sound").
+4. **Embeddings:** now Unavailable on both Home and Status, following "Video and embeddings are unavailable." The Paused glyph is removed. Status still leads with Video, because the owner capture reports "1 problem needs you".
+5. **Home app rows:** used apps have no action. Telegram helper (not used yet) keeps "Set up". A single "Manage apps and keys" link gives access to configuration.
+6. **Status:** the incident is now a plain section under a rule. The failed receipt row sits directly under the incident actions. The by-day chart is in a `<details>` element, closed by default. The completed receipt from 2d ago is removed because it only repeated older evidence. The page now ends at about y=600 of 1000, which is below the top third.
+7. **Library:** frames are now square (aspect-ratio 1), so square images have no gutters. The video poster (3:2) still shows a band inside its square frame. The rail is the only large preview. The selected cell keeps its thumbnail, selection outline and bold title (coordinator correction: the "Shown in the preview" placeholder was removed).
+8. **Accessibility:** both search boxes are labelled `<input type="search">` elements, and Type and Person are labelled native `<select>` elements. Each audio and video cell has a native `<button>` named "Play audio: ..." or "Play video: ..." as a sibling of the selection link, not inside it.
